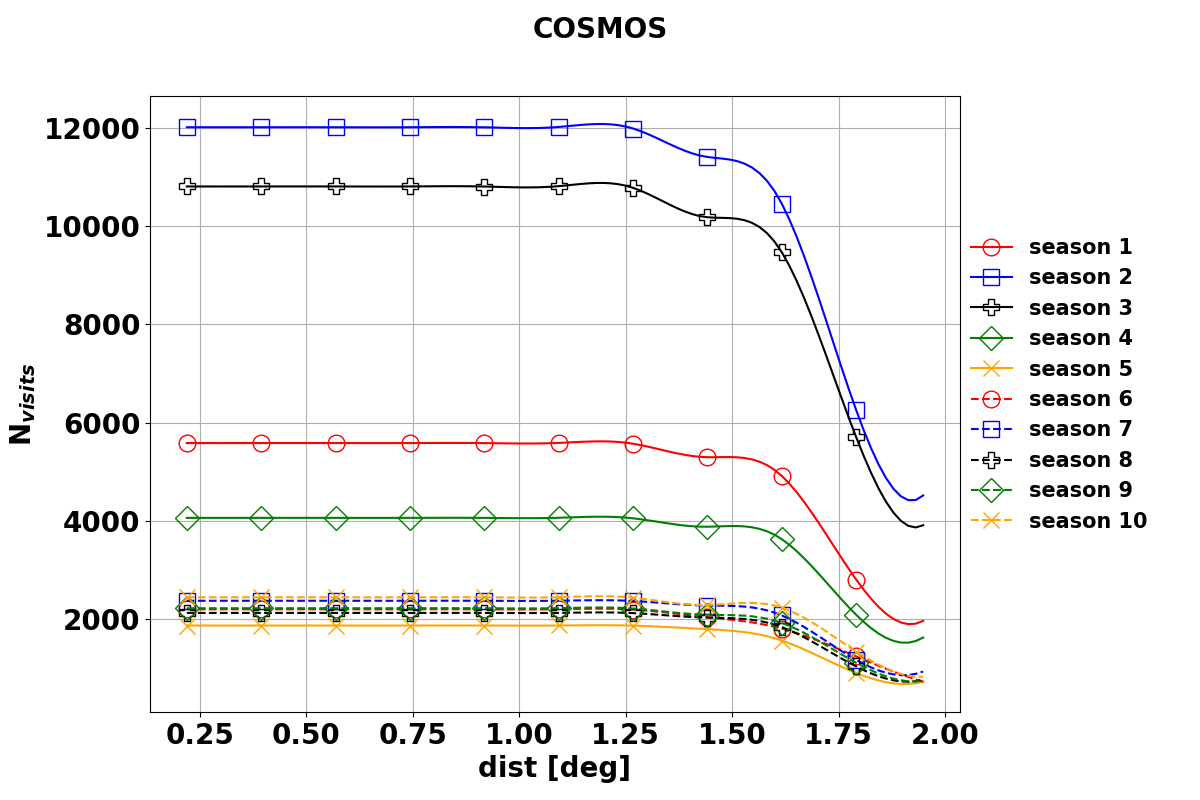
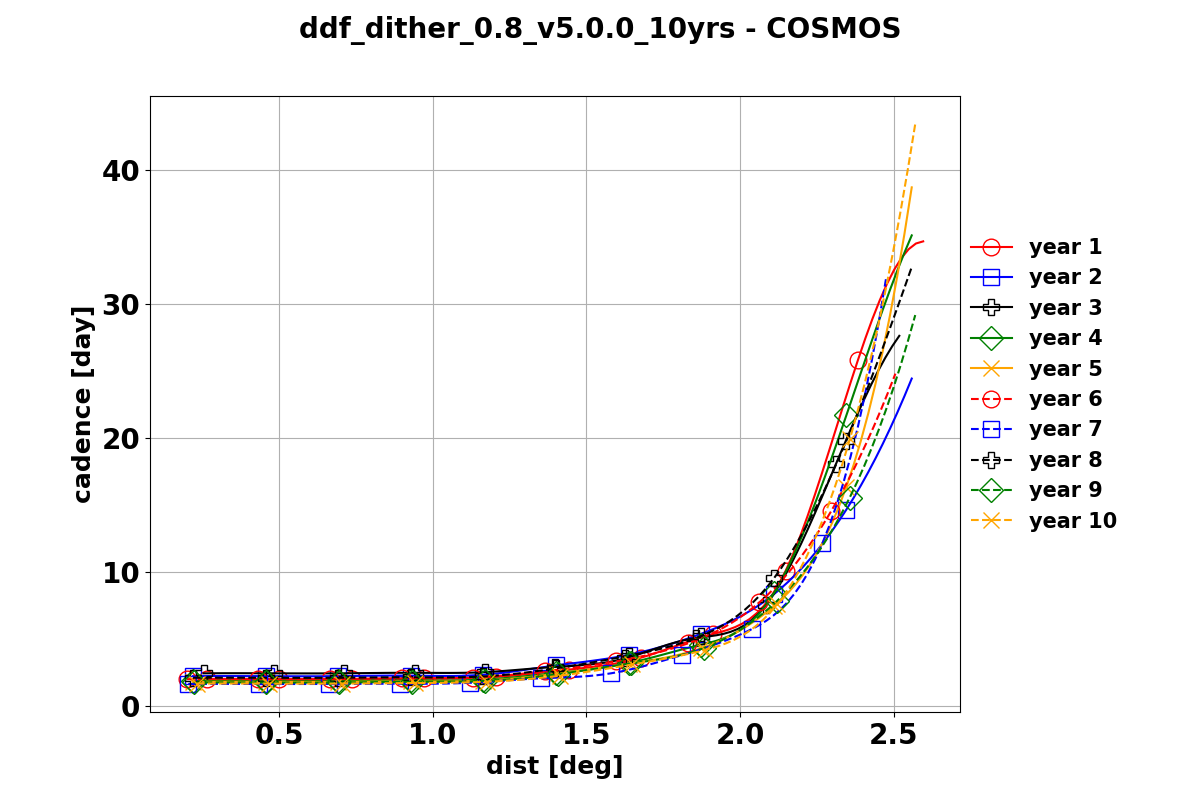
doc update

diff --git a/docs/os_info/usage_plot_pixel.md b/docs/os_info/usage_plot_pixel.md
@@ -1,22 +1,40 @@
-## Usage: plot_os_pixel_info.py [options]
+## Usage: plot_scripts/os_info/plot_os_pixel_info.py [options]
 <pre>
 Script to plot pixel level OS infos
 
 Options:
-  -h, --help            show this help message and exit
+   -h, --help            show this help message and exit
   --dbName=DBNAME       dbName to process [test_newb]
   --dbDir=DBDIR         dbDir of the OS to process [../test_metric]
   --nside=NSIDE         healpix nside parameter [128]
-  --plots=PLOTS         plots to show[cadence_season,nvisits_season,cadence_di
-                        st,nvisits_dist,mollview_cadence,mollview_nvisits]
+  --plots=PLOTS         plots to show [gen_plots,mollview]
   --mollview_seasons=MOLLVIEW_SEASONS
-                        plots to show[1-5]
+                        plots to show [1-5]
+  --fields=FIELDS       plots to show [COSMOS,XMM-
+                        LSS,CDFS,ELAISS1,EDFS_a,EDFS_b]
+  --fieldType=FIELDTYPE
+                        type of field to process (DD/WFD) [DD]
+  --timescale=TIMESCALE
+                        time scale for the plots (year/season) [year]
+  --mollview_var=MOLLVIEW_VAR
+                        var to plot in Mollview [cadence,nvisits]
+  --gen_var=GEN_VAR     gen var to plot
+                        [cadence_year,nvisits_year,cadence_dist]
+  --hist_var=HIST_VAR   hist var to plot [nvisits_10yrs]			
 </pre>
 
 ## example
 
-python plot_scripts/os_info/plot_os_pixel_info.py --dbName=baseline_v4.3.1_10yrs --plots=nvisits_dist,cadence_dist will lead to the following plots of the file ../test_metric/baseline_v4.0_10yrs.hdf5.
+python plot_scripts/os_info/plot_os_pixel_info.py --dbDir=../dd_pixels --plots=gen_plots --dbName=ddf_dither_0.8_v5.0.0_10yrs --fields=COSMOS --gen_var=cadence_dist,nvisits_dist
 
-[cadence vs distance to the center of pixel set](plotd2.png)
+[cadence vs distance to the center of pixel set](plotd1.png)
 
 [nvisits vs distance to the center of pixel set](plotd2.png)
+
+python plot_scripts/os_info/plot_os_pixel_info.py --dbDir=../wfd_pixels --dbName=baseline_v5.0.0_10yrs --fieldType=WFD --mollview_season=1 --plots=hist,mollview --nside=64
+
+[Nvisits 10 yrs - WFD - histogram](plotd3.png)
+
+[Nvisits year 1 - WFD - Mollweid view](plotd4.png)
+
+[cadence year 1- WFD - Mollweid view](plotd5.png)
